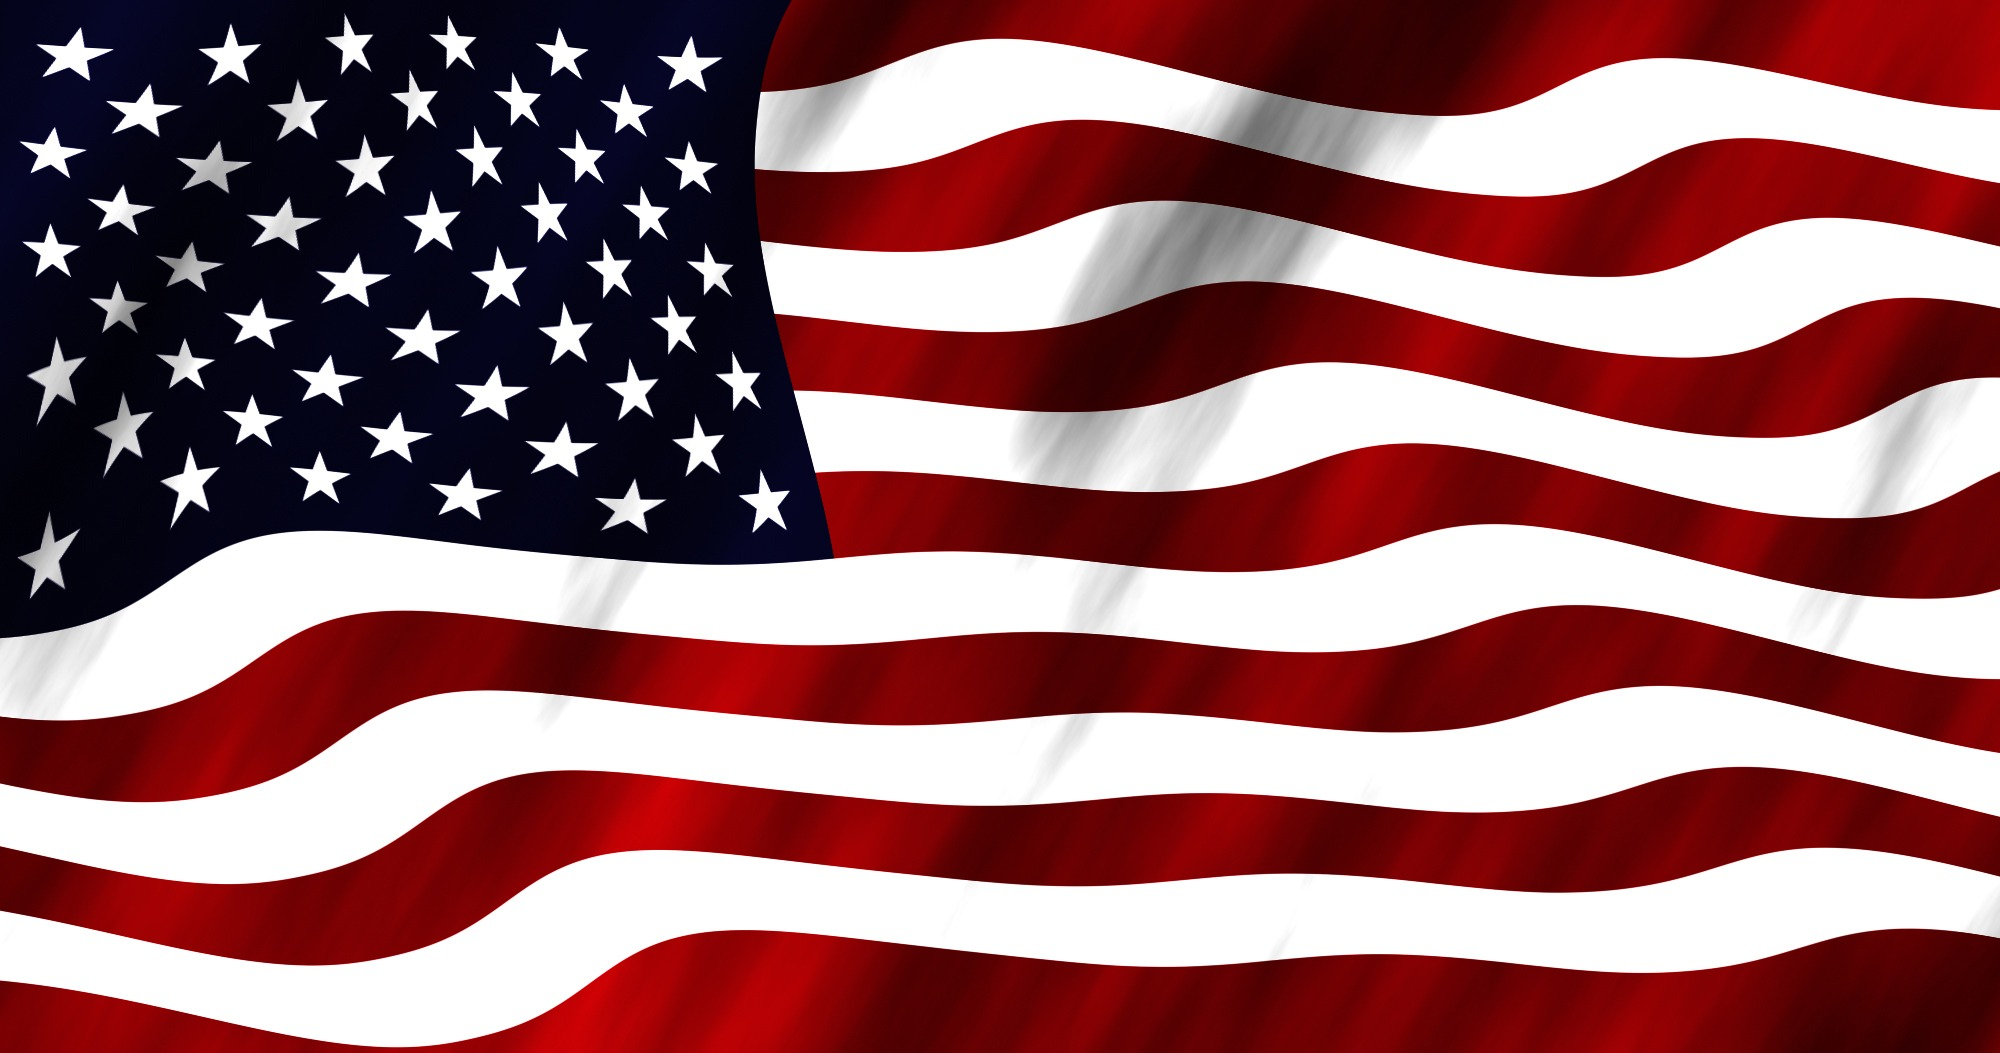
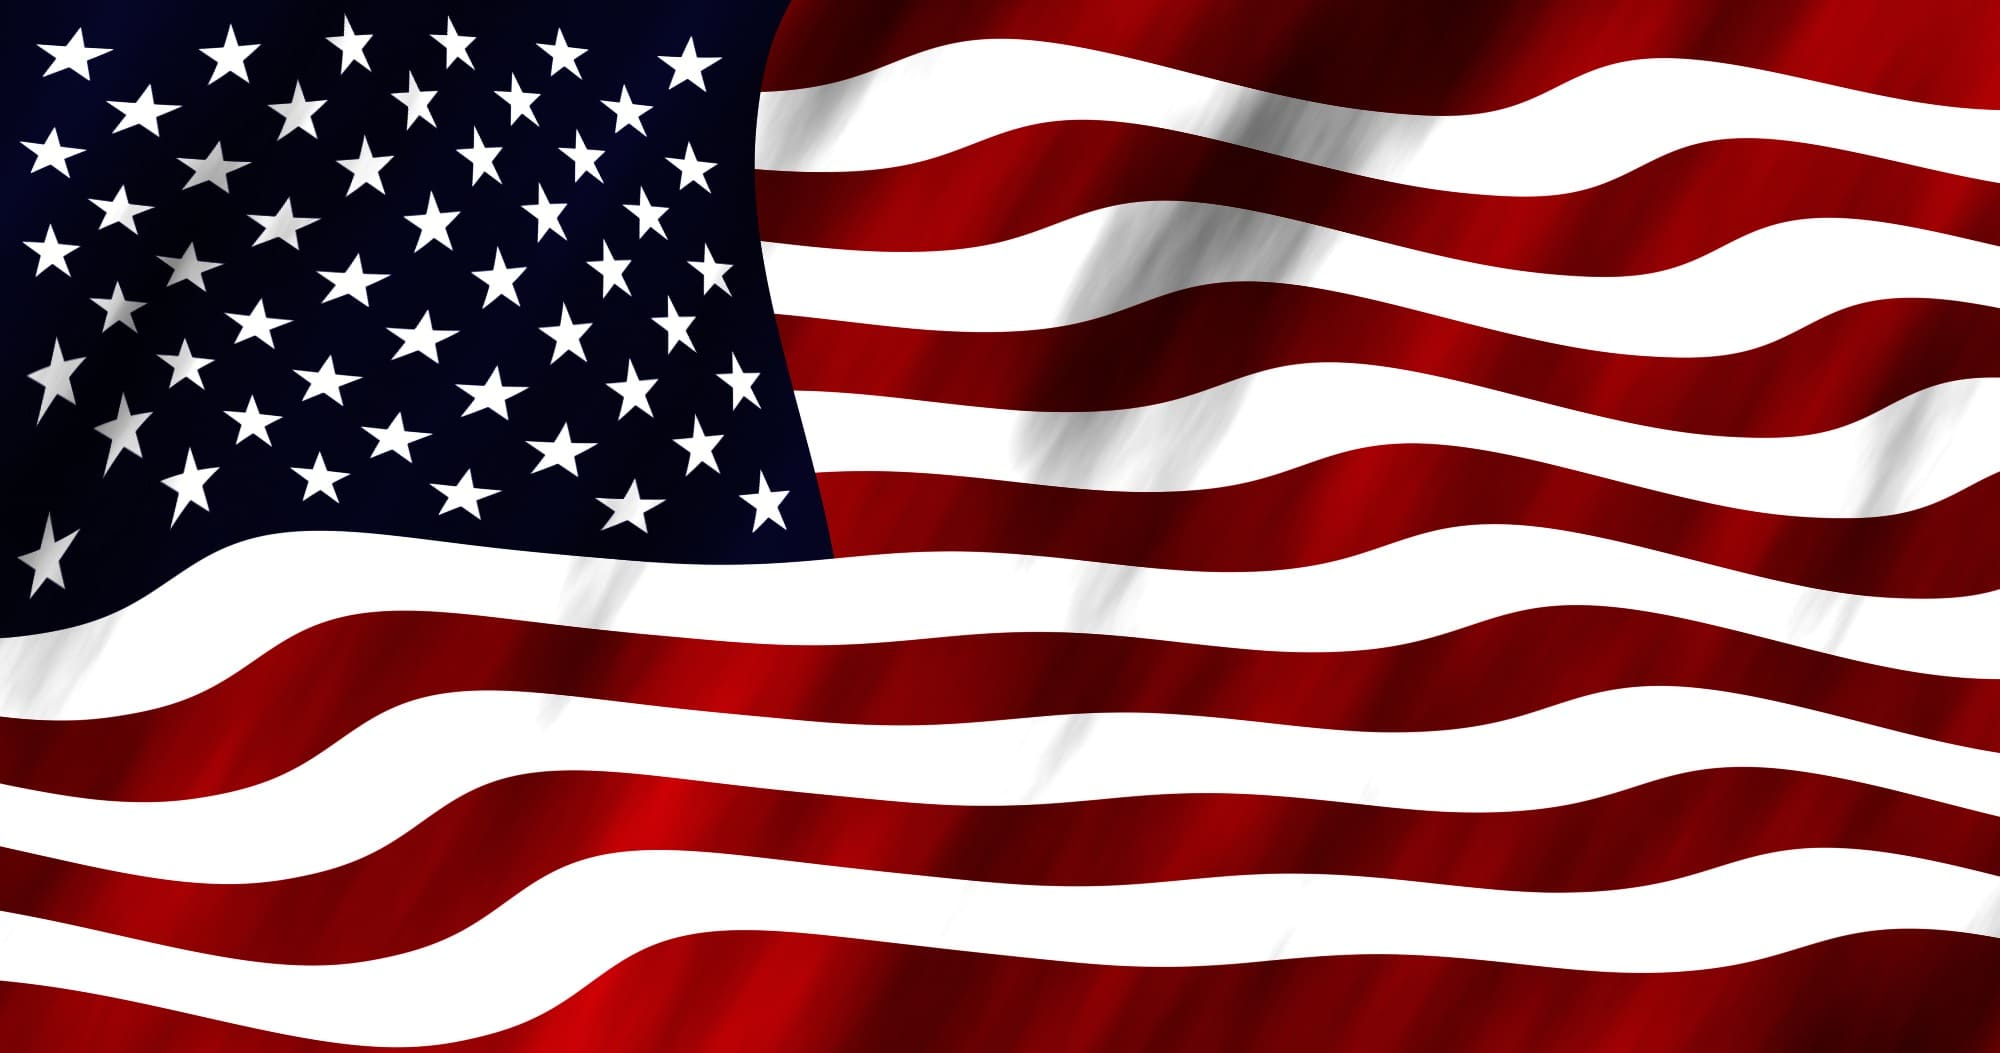
folder revision

diff --git a/index.html b/index.html
@@ -1,4 +1,5 @@
 <!DOCTYPE html>
+<html lang="en">
 
 <head>
     <meta charset="UTF-8">
@@ -18,7 +19,7 @@
 
 <body>
     <header>
-        <span id="course-title">WDD 131 -Dynamic Web Fundamental</span>
+        <span id="course-title">WDD 131 - Dynamic Web Fundamentals</span>
 
         <nav>
             <a href="https://www.linkedin.com/in/sinamcbraun">LinkedIn</a>
@@ -26,6 +27,10 @@
             <a
                 href="https://www.churchofjesuschrist.org/study/scriptures/bofm/ether/12?lang=eng&id=p27#p27">Scripture</a>
             <a href="#">Final Project</a>
+            <a href="#">GitHub</a>
+            <a href="#">Portfolio</a>
+            <a href="#">Contact</a>
+
         </nav>
     </header>
 